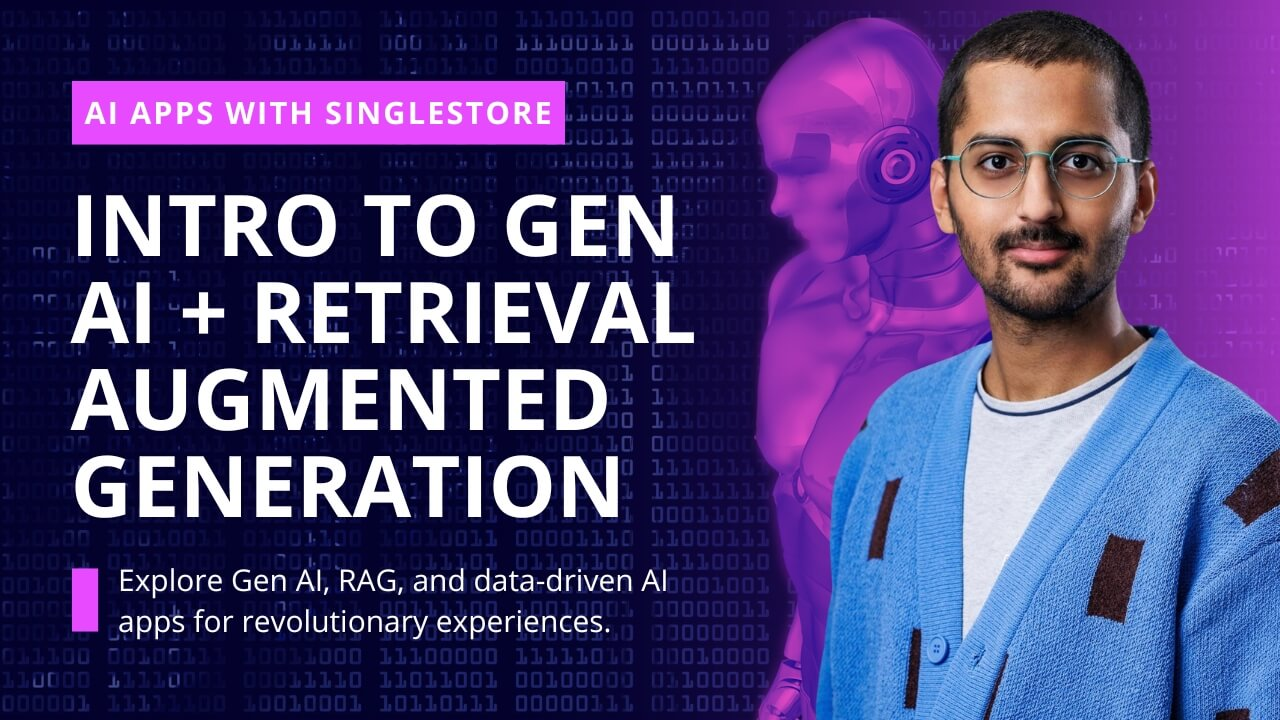
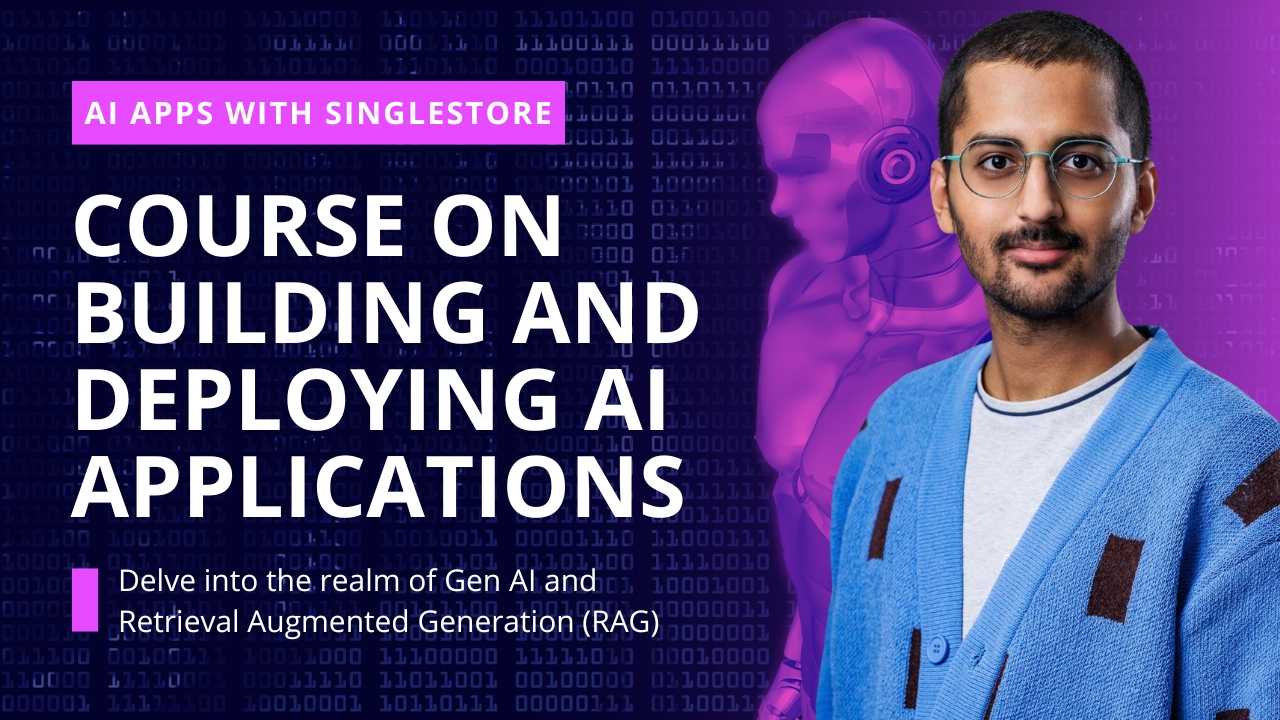
feat: change genai-rag-singlestore course information and card image

Changed region(s): [[0.0312, 0.2444, 0.5625, 0.7333], [0.0938, 0.7944, 0.5312, 0.8861]]

diff --git a/src/constants/index.ts b/src/constants/index.ts
@@ -268,10 +268,10 @@ export const COURSES: CoursesInfo = [
     description:
       "In this comprehensive course, you'll delve into the cutting-edge realm of Gen AI and Retrieval Augmented Generation (RAG), with a focus on leveraging SingleStore technology.",
     about:
-      "In this comprehensive course, you'll delve into the cutting-edge realm of Gen AI and Retrieval Augmented Generation (RAG), with a focus on leveraging SingleStore technology. Explore the fundamentals of AI, emphasizing the critical role of data, and uncover the intricacies of RAG technology. From understanding semantic search and vectors to mastering the construction of Gen AI applications using RAG architecture and SingleStore, this course equips you with the knowledge and tools necessary to navigate the forefront of AI innovation. By the course's end, you'll be proficient in deploying your creations to production, ready to make your mark in the ever-evolving landscape of artificial intelligence.",
+      "Explore the fundamentals of AI, emphasizing the critical role of data, and uncover the intricacies of RAG technology. From understanding semantic search and vectors to mastering the construction of Gen AI applications using RAG architecture and SingleStore, this course equips you with the knowledge and tools necessary to navigate the forefront of AI innovation. By the course's end, you'll be proficient in deploying your creations to production, ready to make your mark in the ever-evolving landscape of artificial intelligence.",
     image: courseSinglestore,
     introVideoEmbedLink:
-      'https://www.youtube.com/embed/Qq2fCtzMbD8?si=LhY1ZzmeLsxSnbUt',
+      'https://www.youtube.com/embed/_CgBmuZ99M8?si=7Dsx-BCN2htBmVOX',
     slug: 'genai-rag-singlestore',
     resources: [
       {
@@ -284,6 +284,11 @@ export const COURSES: CoursesInfo = [
         description:
           'Sign up to SingleStore to learn in a production ready environment',
         url: 'https://msql.co/S2-intro-to-RAG',
+      },
+      {
+        title: 'Sign up to Pieces',
+        description: 'Elevate your note taking journey with this AI tool',
+        url: 'https://pieces.app/?utm_source=kunal-kushwaha&utm_medium=referral&utm_campaign=kunal-partner-site',
       },
       {
         title: 'Code repository link',
